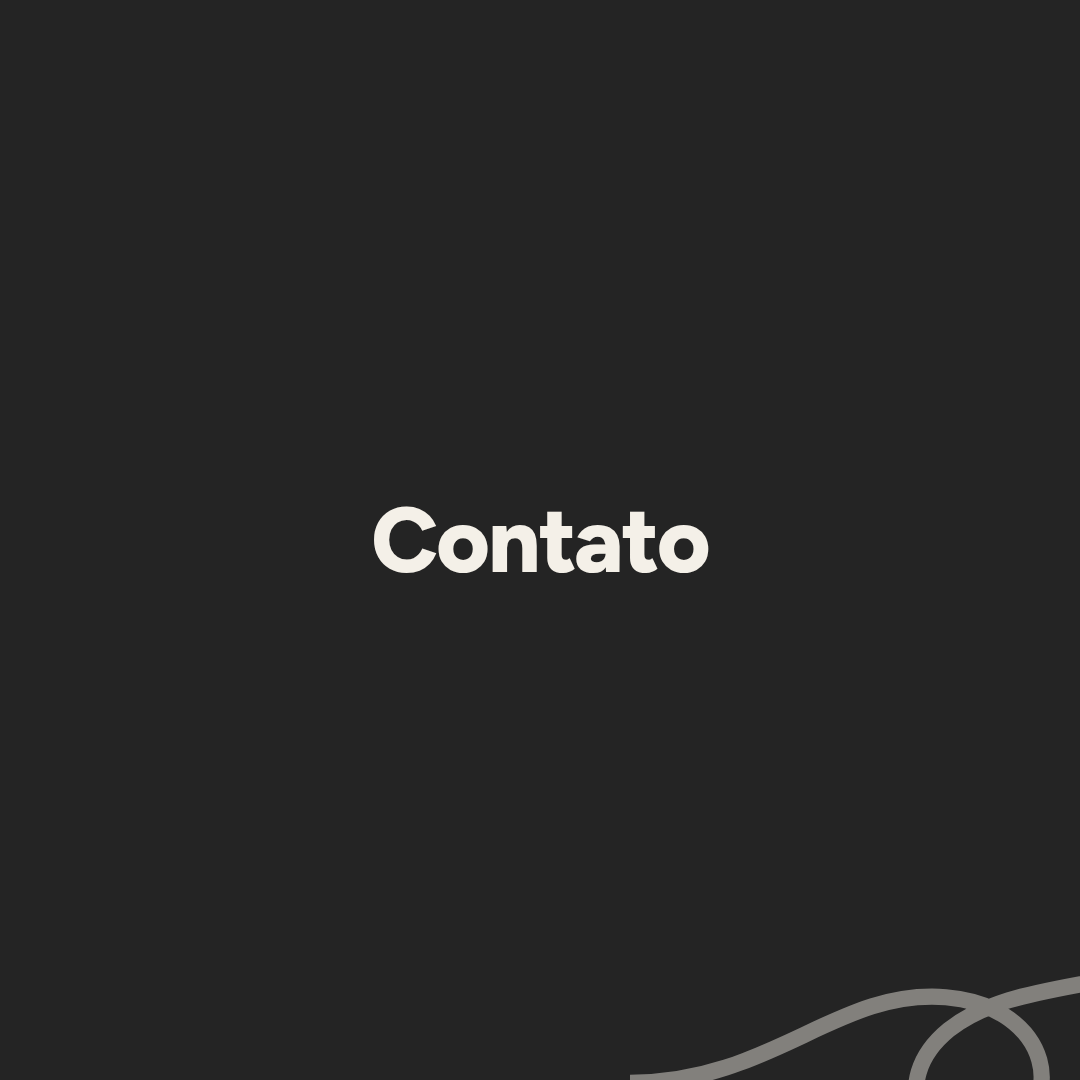
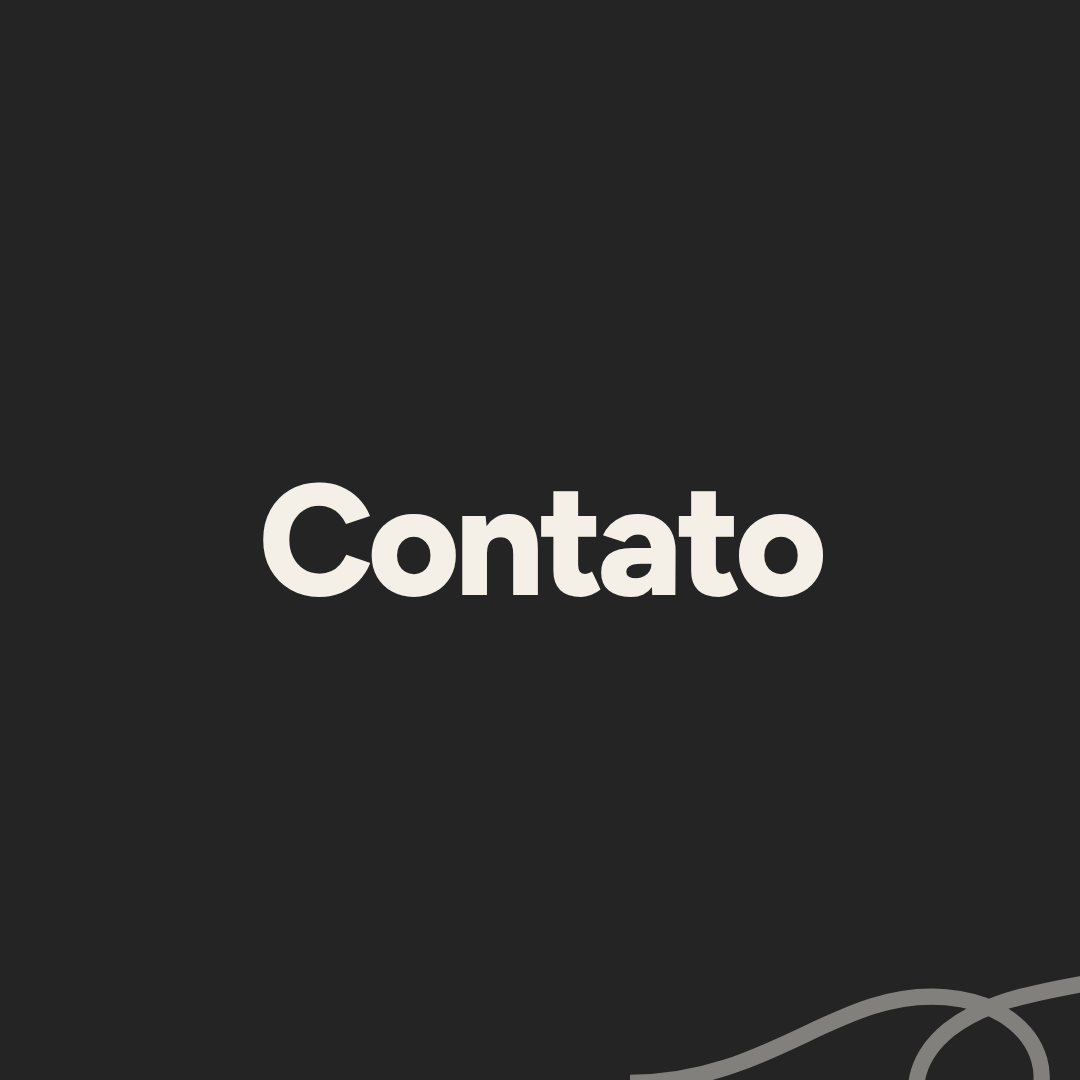
Aumenta o texto das capas de destaque
No tamanho real em que a capa aparece no perfil — cerca de 60px — o texto a
92px virava mancha. Subiu para 158px, que é o maior que cabe em "Processo"
dentro da área que o corte redondo preserva. Conferido reduzindo a 64px.

Claude-Session: https://claude.ai/code/session_01WhLyU9cwCcQu3ZVdixgzXu

Changed region(s): [[0.2444, 0.4278, 0.7639, 0.55]]

diff --git a/instagram/arte.html b/instagram/arte.html
@@ -57,7 +57,7 @@ body{background:#777;font-family:'Figtree',system-ui,sans-serif;}
 /* destaque (capa de stories) */
 .capa{width:1080px;height:1080px;background:var(--lar);display:grid;place-items:center;margin:20px;position:relative;overflow:hidden;}
 .capa--escura{background:var(--graf);}
-.capa span{font-size:92px;font-weight:800;letter-spacing:-.02em;color:var(--graf);text-align:center;line-height:1.05;}
+.capa span{font-size:158px;font-weight:800;letter-spacing:-.035em;color:var(--graf);text-align:center;line-height:1;}
 .capa--escura span{color:var(--off);}
 .capa .laco{right:-170px;bottom:-130px;width:620px;color:#F4F0E8;opacity:.45;}
 
